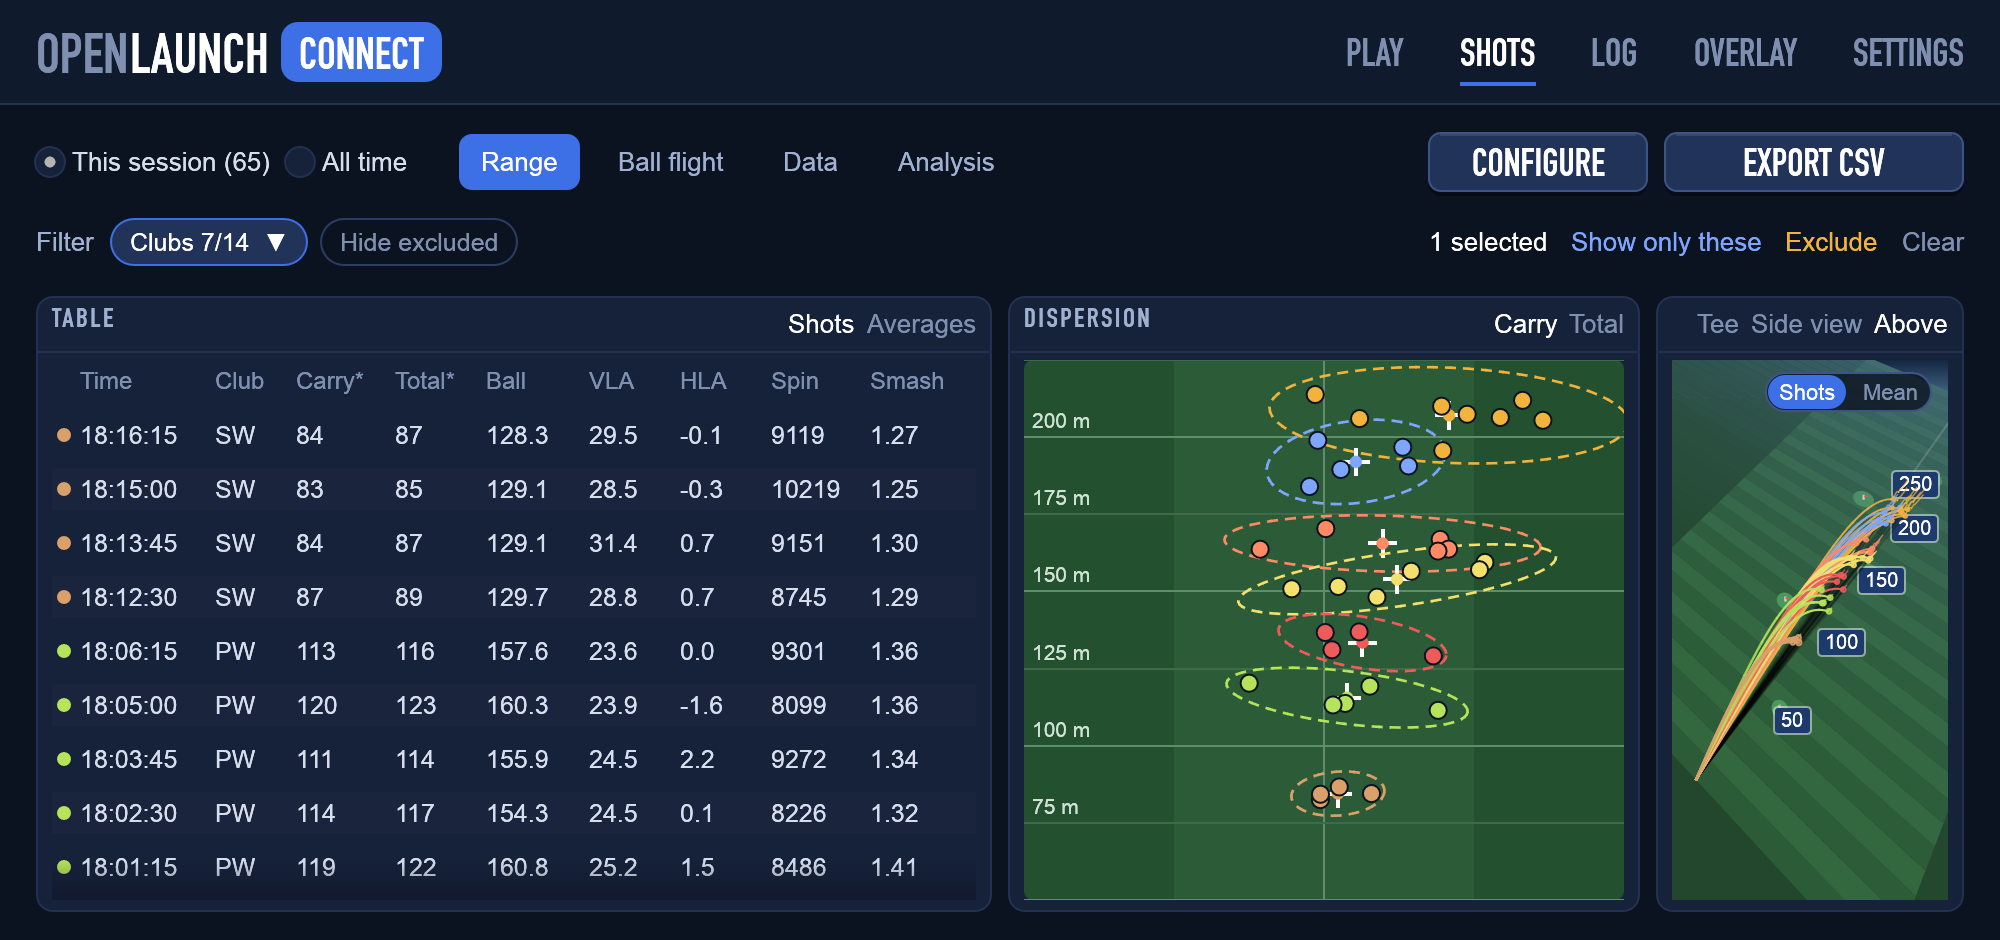
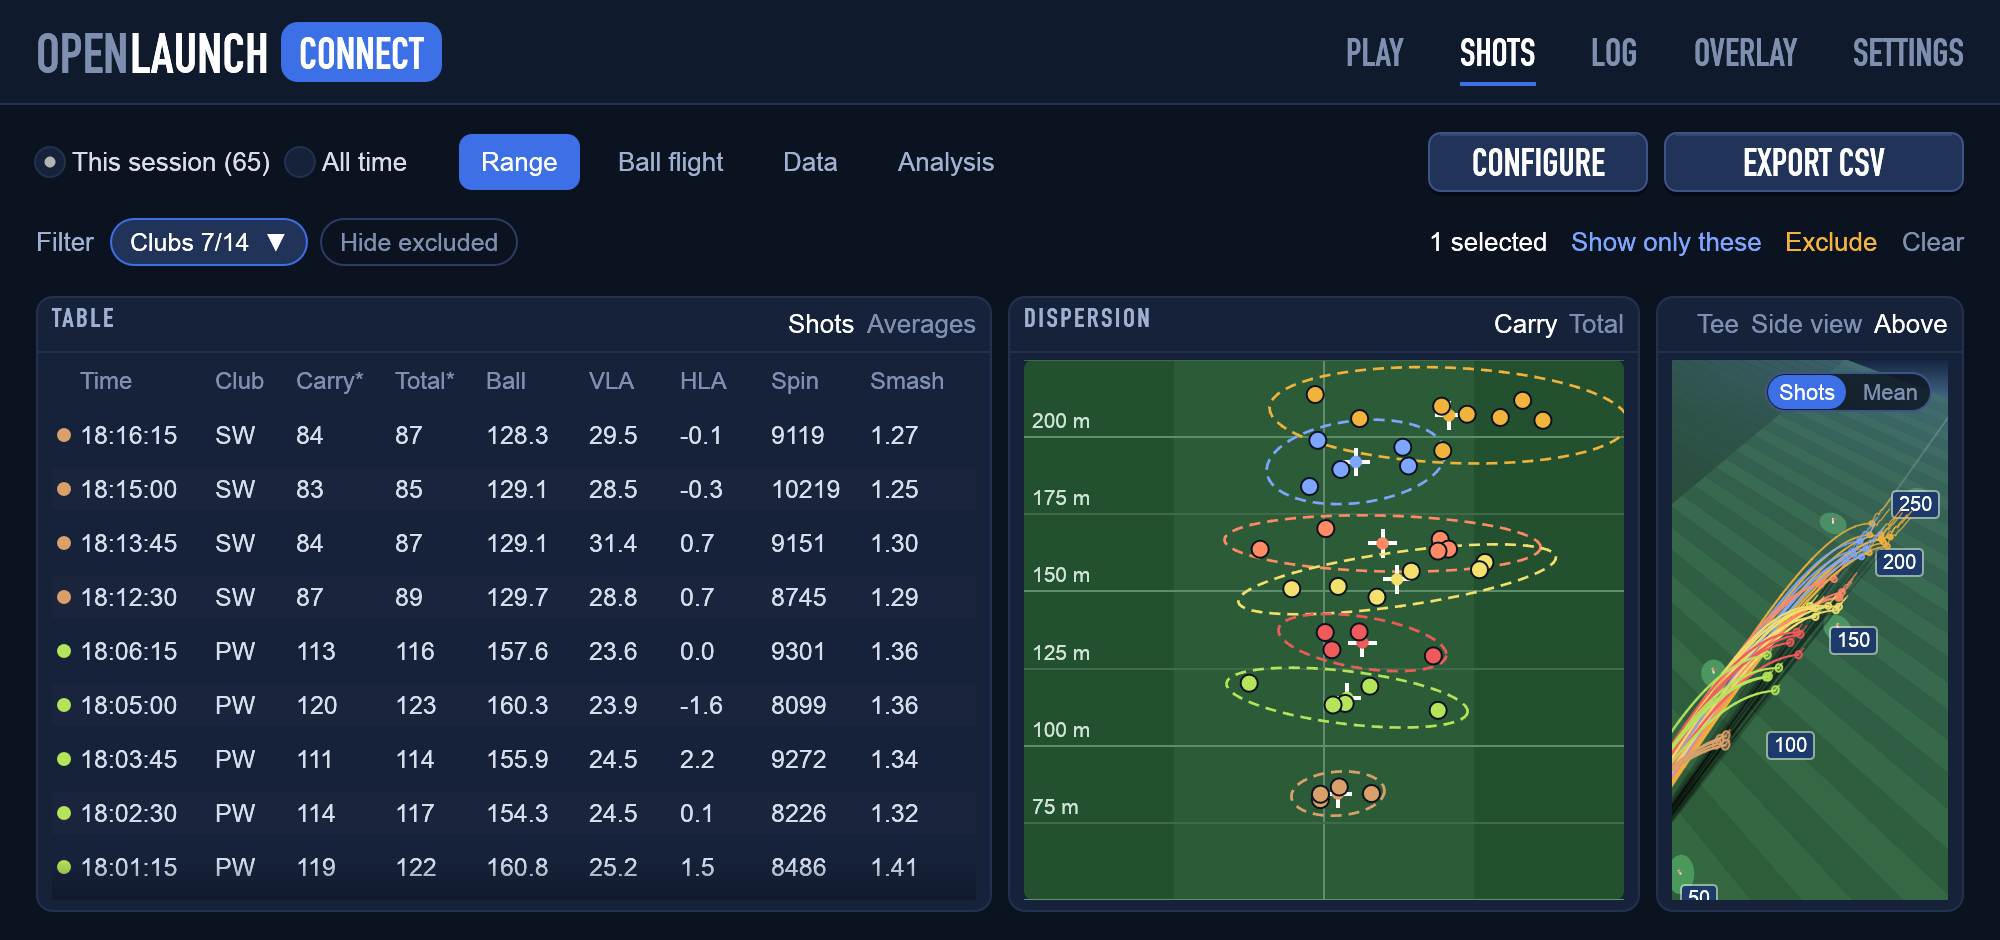
3D flight: view from above zoomed onto the landing area

diff --git a/src/bin/openlaunch-connect/flight3d.rs b/src/bin/openlaunch-connect/flight3d.rs
@@ -126,6 +126,8 @@ pub(super) fn flight_view(ui: &mut egui::Ui, i: usize, tile: &Tile, ctx: &TileCt
     let half = ctx.paths.iter().map(|p| p.rest[0].abs()).fold(15.0_f32, f32::max).max(far * 0.12).min(60.0) * 1.3;
     // Diagonally from above the range is as wide as a real one, so it covers the whole tile.
     let half = if camera == Camera::Above { half.max(far * 0.45) } else { half };
+    // Landing and resting points of the shots shown.
+    let lands: Vec<[f32; 3]> = ctx.paths.iter().flat_map(|p| p.air.last().copied().into_iter().chain([p.rest])).collect();
     let view = match camera {
         Camera::Tee => View::new([0.0, 2.0, -12.0], [0.0, apex * 0.35, far * 0.6]),
         // From the right of the range, so the distance grows to the right.
@@ -136,15 +138,22 @@ pub(super) fn flight_view(ui: &mut egui::Ui, i: usize, tile: &Tile, ctx: &TileCt
         Camera::Above => {
             let aspect = rect.width() / rect.height().max(1.0);
             let turn = 35.0 + 30.0 * ((aspect - 0.6) / 1.4).clamp(0.0, 1.0);
-            let (zc, dist, el, az) = (far * 0.5, far * 1.2, 45_f32.to_radians(), turn.to_radians());
+            // Onto the middle of the landing area.
+            let zc = if lands.is_empty() { far * 0.6 } else { lands.iter().map(|q| q[2]).sum::<f32>() / lands.len() as f32 };
+            let (dist, el, az) = (far * 0.8, 45_f32.to_radians(), turn.to_radians());
             View::new([dist * el.cos() * az.sin(), dist * el.sin(), zc - dist * el.cos() * az.cos()], [0.0, 0.0, zc])
         }
     };
     let mut fit: Vec<egui::Vec2> = Vec::new();
     if camera == Camera::Above {
-        // The flights from the tee to where they stop fill the tile; the range runs on beyond.
-        fit.extend(ctx.paths.iter().flat_map(|p| p.air.iter().chain([&p.rest])).filter_map(|q| view.project(*q)));
-        fit.extend([[0.0, 0.0, 0.0], [0.0, 0.0, far / 1.08]].iter().filter_map(|q| view.project(*q)));
+        // Zoomed onto where the balls land and stop, with a little room; the flights come in
+        // from outside and the range runs on beyond.
+        fit.extend(lands.iter().flat_map(|q| {
+            [[q[0] - 6.0, 0.0, q[2] - 6.0], [q[0] + 6.0, 0.0, q[2] + 6.0], [q[0] - 6.0, 0.0, q[2] + 6.0], [q[0] + 6.0, 0.0, q[2] - 6.0]]
+        }).filter_map(|q| view.project(q)));
+        if fit.is_empty() {
+            fit.extend([[0.0, 0.0, 0.0], [0.0, 0.0, far / 1.08]].iter().filter_map(|q| view.project(*q)));
+        }
     } else {
         // The flights and the range; the near corners would be right below the camera.
         fit.extend(ctx.paths.iter().flat_map(|p| p.air.iter().chain([&p.rest])).filter_map(|q| view.project(*q)));
